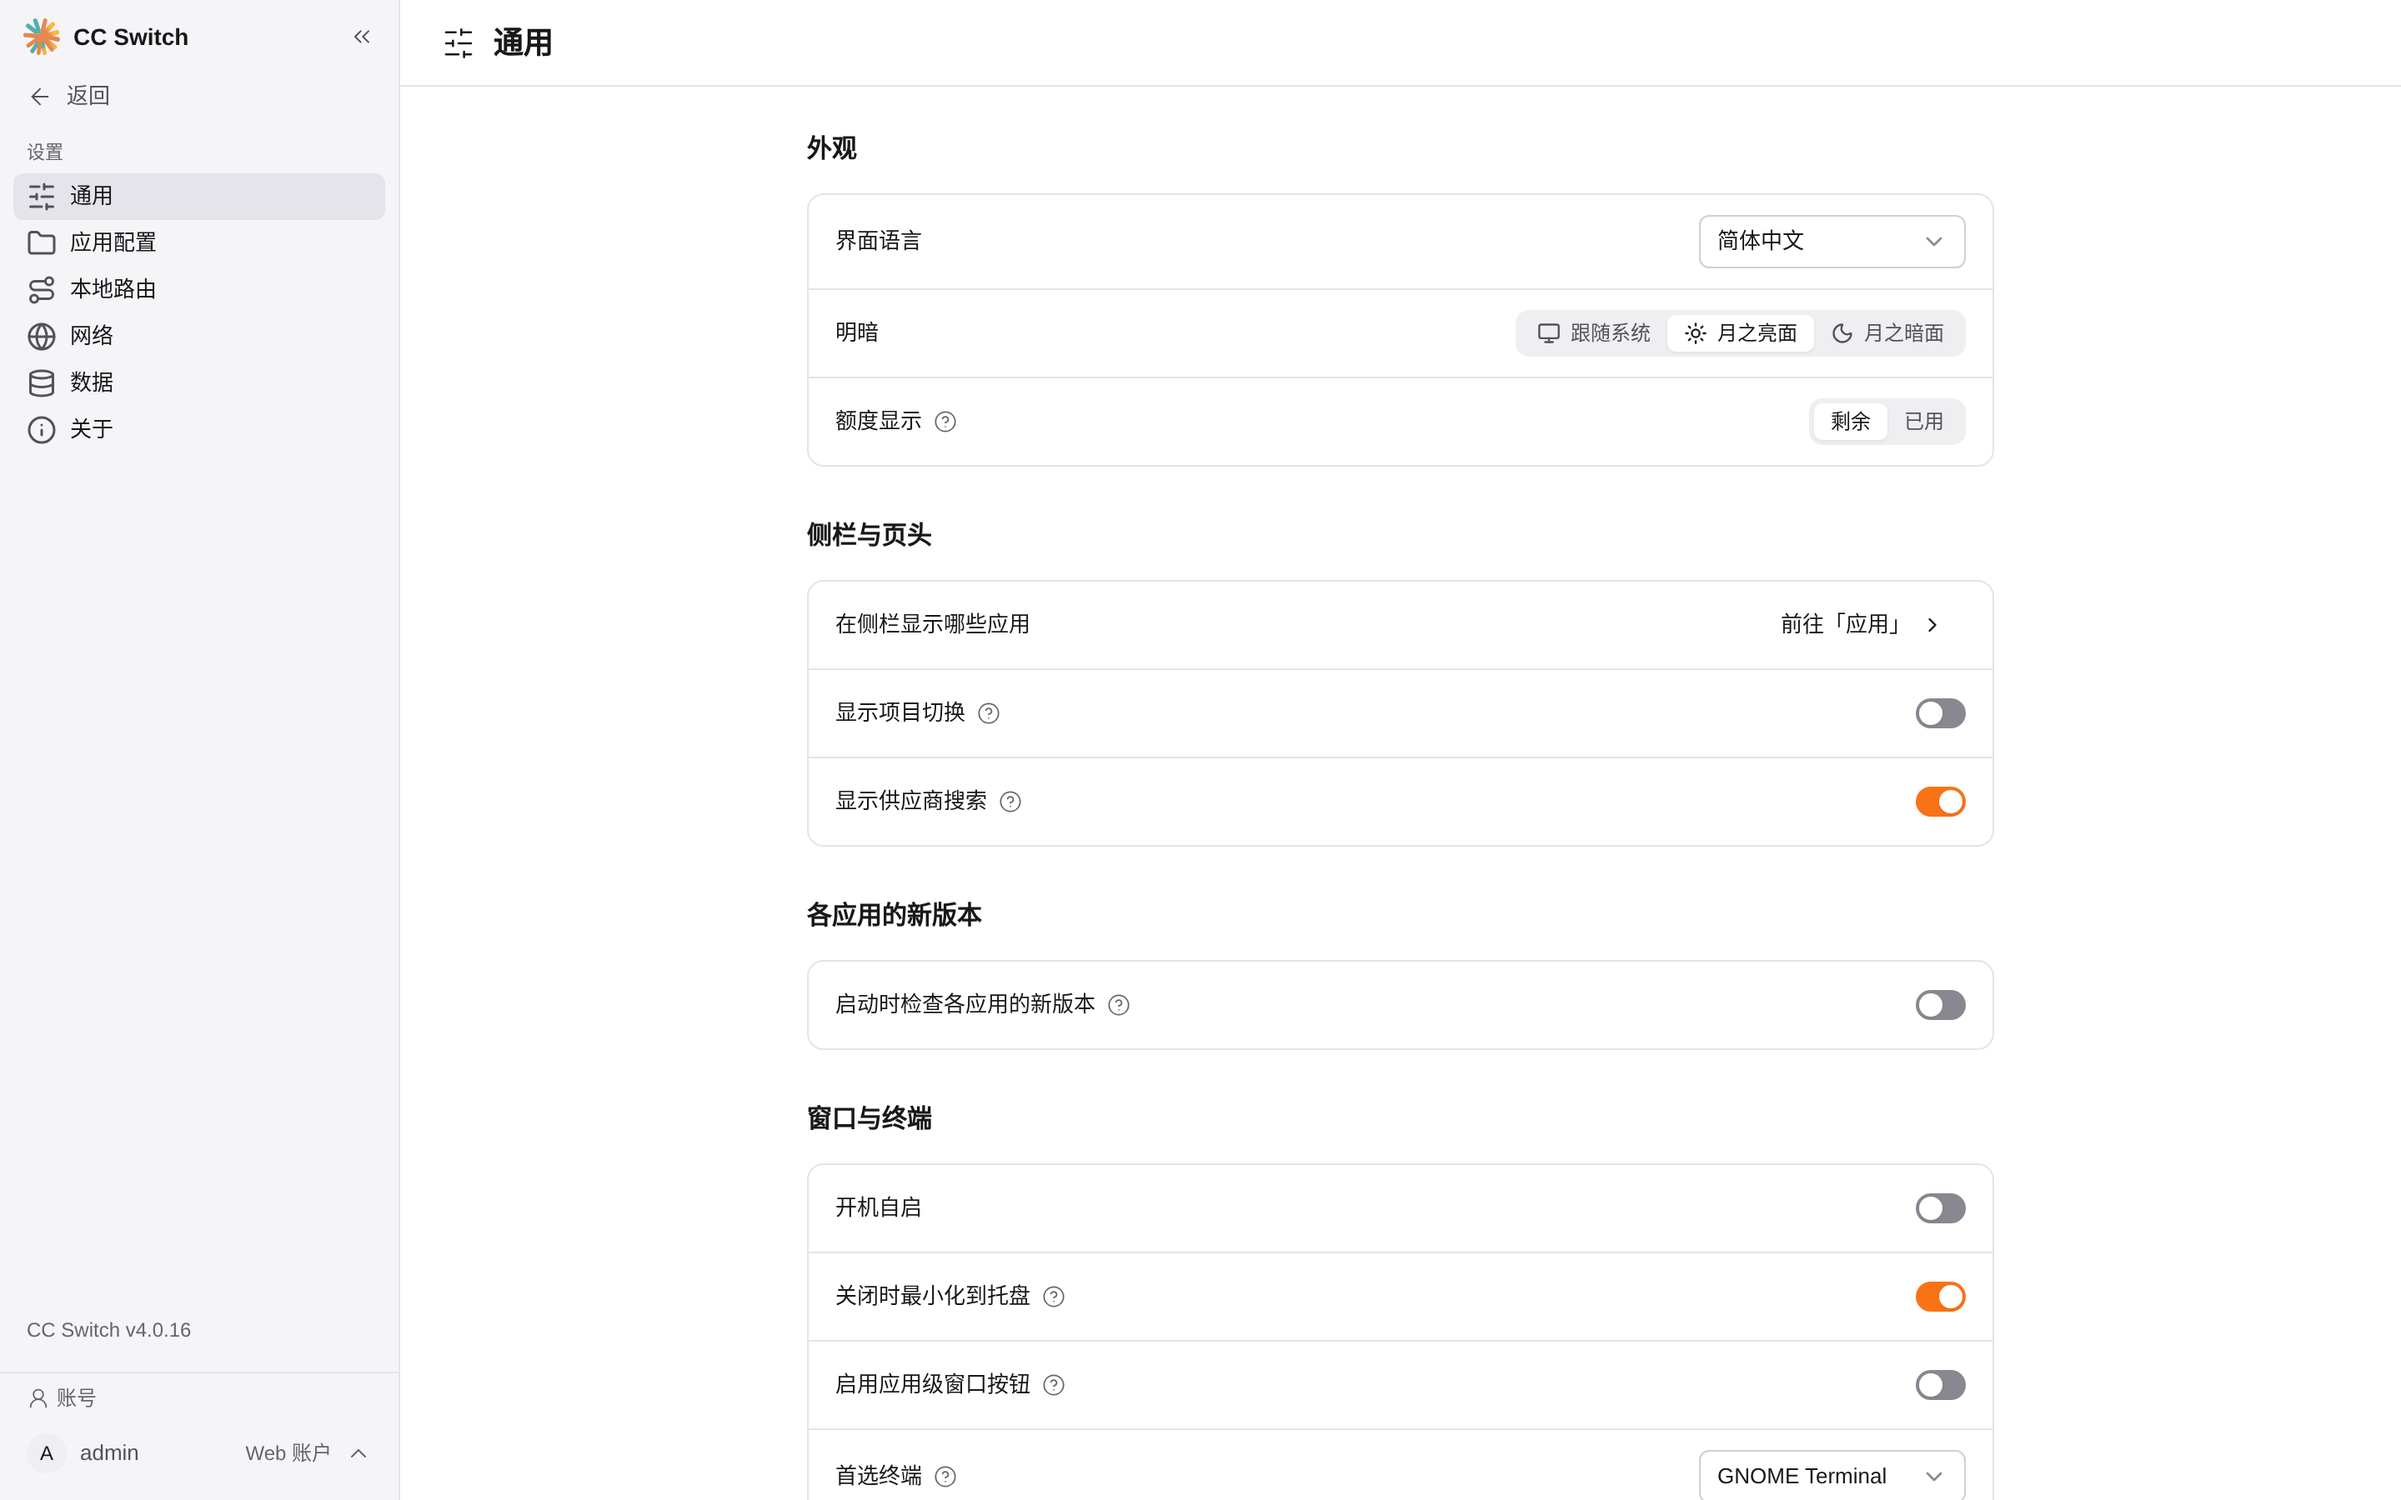
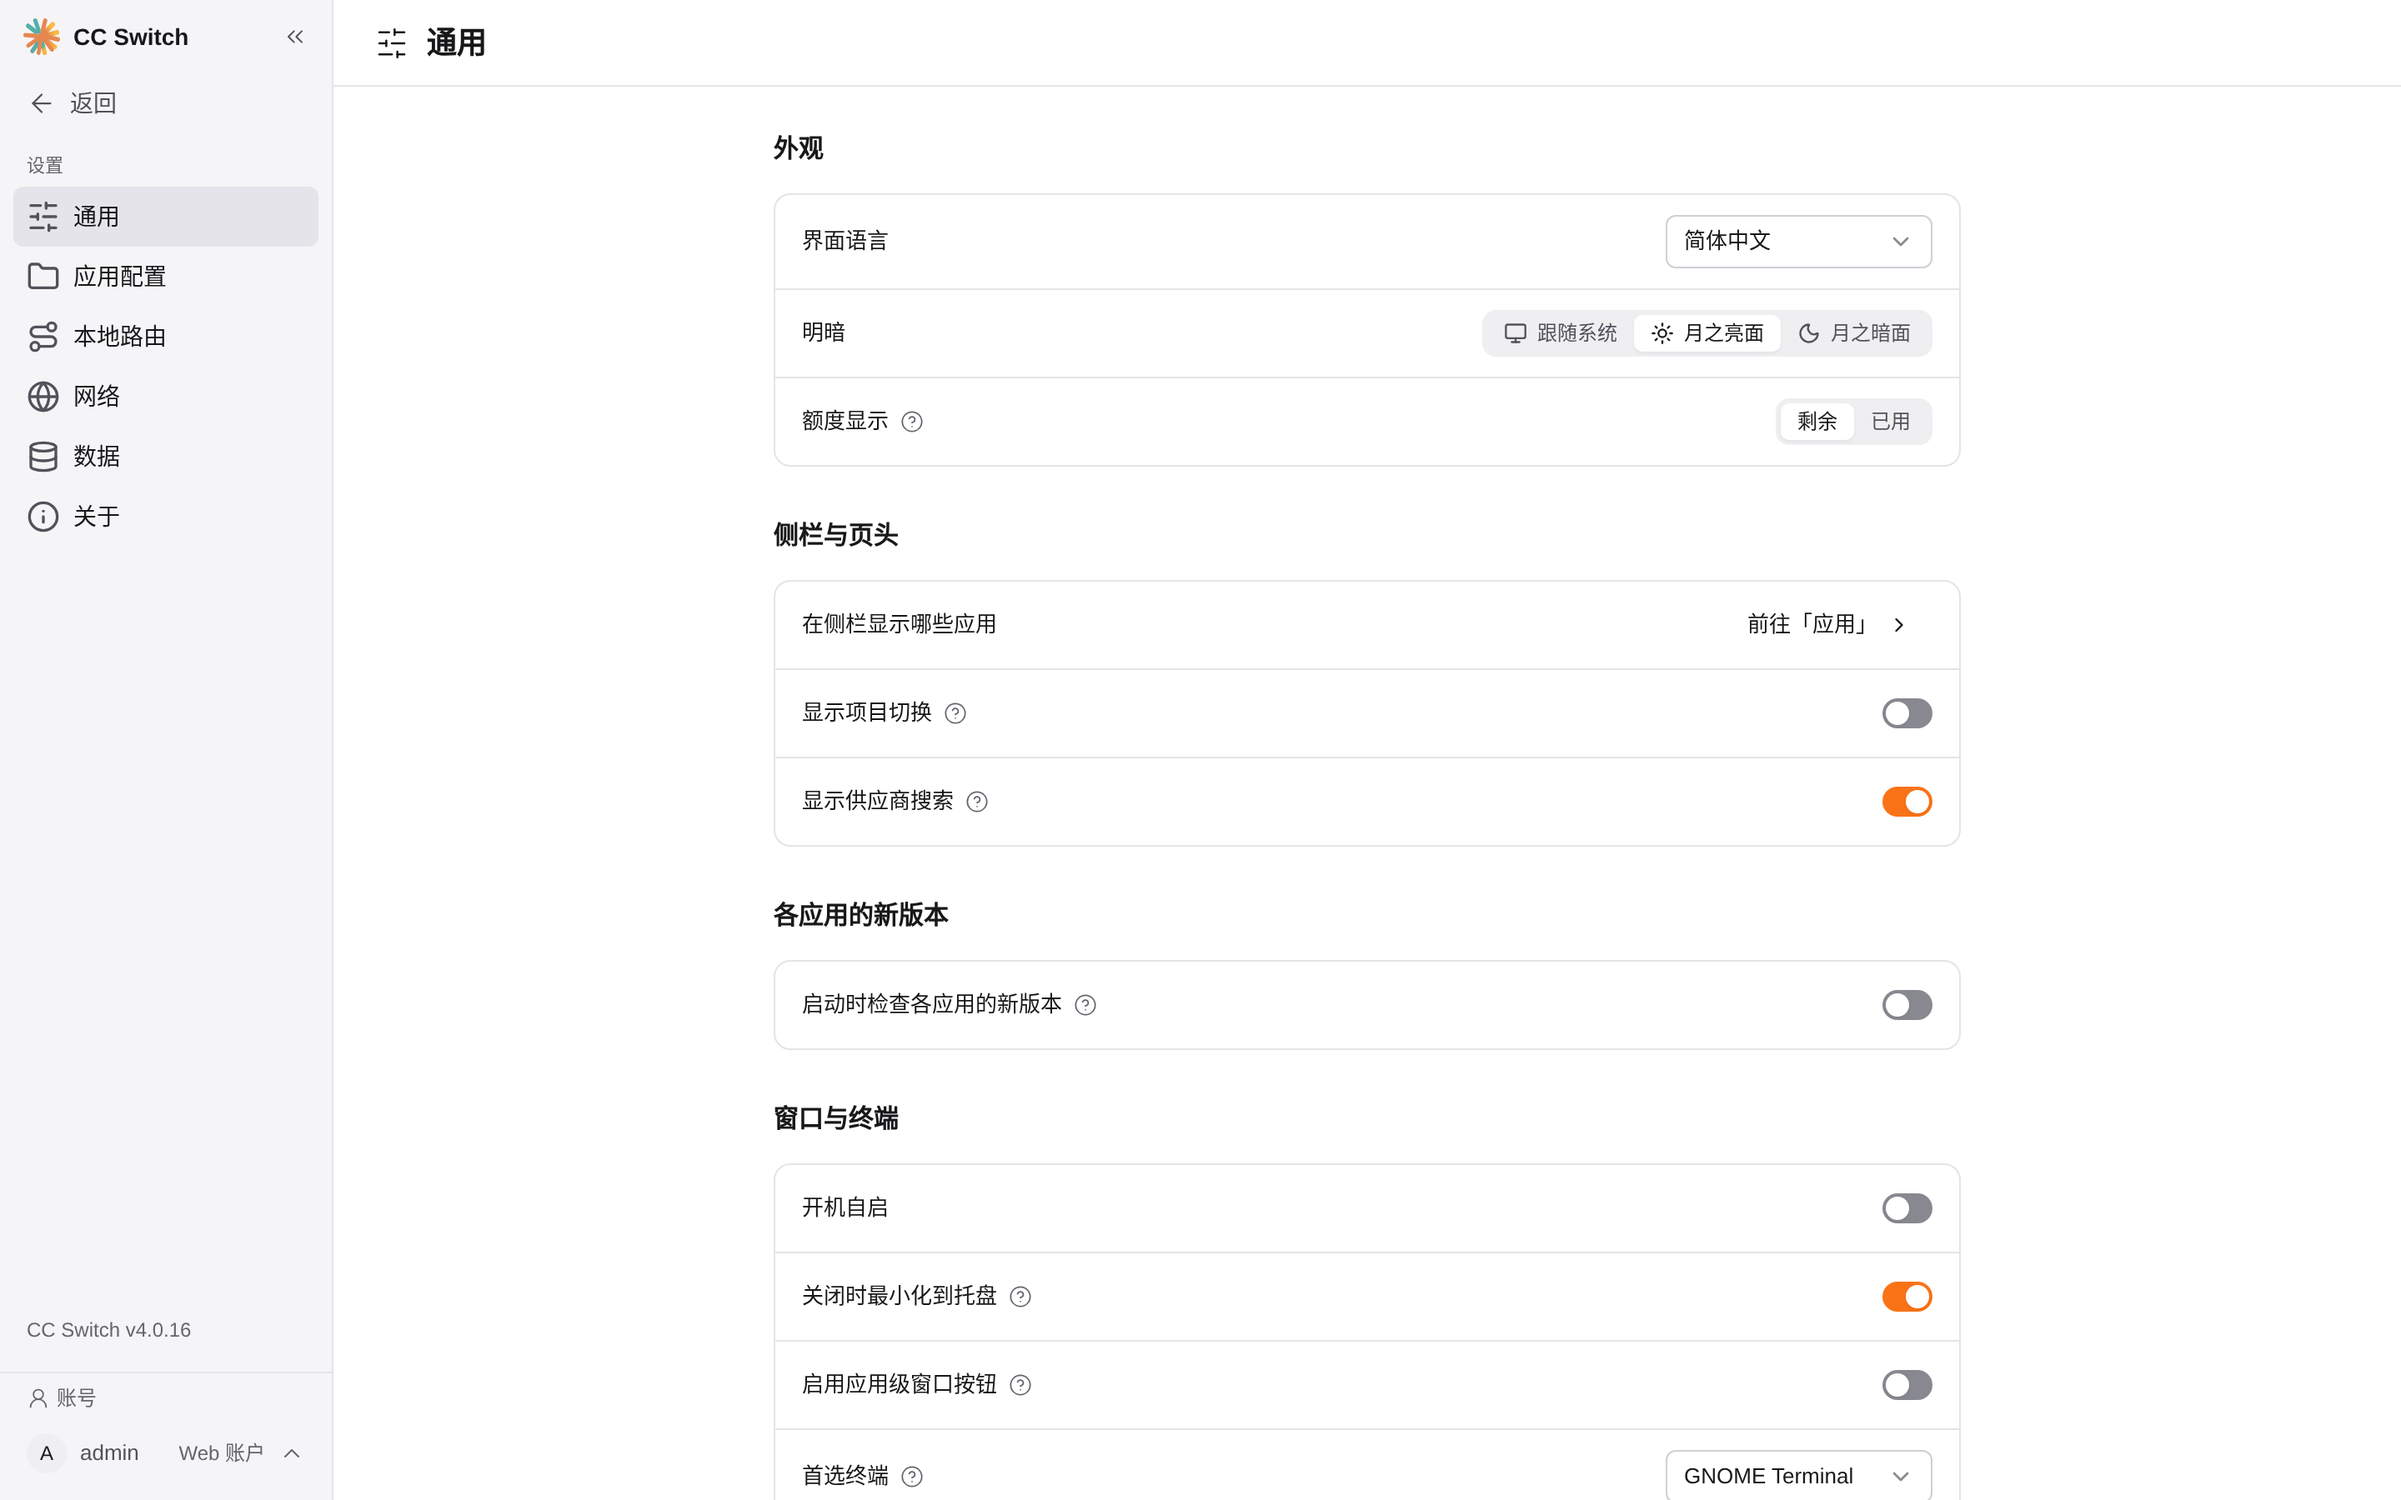
style(sidebar): revert width and increase row height

diff --git a/src/components/shell/Sidebar.tsx b/src/components/shell/Sidebar.tsx
@@ -451,7 +451,7 @@ function AppNavItem({
           aria-label={tip}
           aria-current={selected ? "page" : undefined}
           className={cn(
-            "mx-auto flex h-8 w-12 shrink-0 items-center justify-center rounded-control transition-colors hover:bg-subtle",
+            "mx-auto flex h-9 w-12 shrink-0 items-center justify-center rounded-control transition-colors hover:bg-subtle",
             selected && "bg-selected hover:bg-selected",
           )}
         >
@@ -481,11 +481,11 @@ function AppNavItem({
       onClick={onSelect}
       aria-current={selected ? "page" : undefined}
       className={cn(
-        "mx-2 flex h-7 shrink-0 items-center gap-2 rounded-control px-2 text-start transition-colors hover:bg-subtle",
+        "mx-2 flex h-9 shrink-0 items-center gap-2 rounded-control px-2 text-start text-sm transition-colors hover:bg-subtle",
         selected && "bg-selected font-medium hover:bg-selected",
       )}
     >
-      <AppGlyph app={app} size={16} badgeClassName={badgeBg} />
+      <AppGlyph app={app} size={18} badgeClassName={badgeBg} />
       <span className="min-w-0 flex-1 truncate">{name}</span>
       {status.alert ? (
         <span
@@ -612,7 +612,7 @@ function NavItem({
           aria-label={title ?? accessibleName}
           aria-current={selected ? "page" : undefined}
           className={cn(
-            "mx-auto flex h-8 w-12 shrink-0 items-center justify-center rounded-control transition-colors hover:bg-subtle",
+            "mx-auto flex h-9 w-12 shrink-0 items-center justify-center rounded-control transition-colors hover:bg-subtle",
             selected && "bg-selected hover:bg-selected",
           )}
         >
@@ -642,12 +642,12 @@ function NavItem({
         aria-label={trailingLabel ? accessibleName : undefined}
         aria-current={selected ? "page" : undefined}
         className={cn(
-          "flex h-7 shrink-0 items-center gap-2 rounded-control px-2 text-start transition-colors hover:bg-subtle",
+          "flex h-9 shrink-0 items-center gap-2 rounded-control px-2 text-start text-sm transition-colors hover:bg-subtle",
           compact ? "min-w-0 flex-1" : "mx-2",
           selected && "bg-selected font-medium hover:bg-selected",
         )}
       >
-        {glyph(18)}
+        {glyph(20)}
         {trailingLines.length === 0 ? (
           <span className="min-w-0 flex-1 truncate">{label}</span>
         ) : (
@@ -728,9 +728,9 @@ function SettingsDirectory({
         <button
           type="button"
           onClick={onExitSettings}
-          className="mx-2 flex h-7 shrink-0 items-center gap-2 rounded-control px-2 text-start text-fg-2 transition-colors hover:bg-subtle hover:text-fg-1"
+          className="mx-2 flex h-9 shrink-0 items-center gap-2 rounded-control px-2 text-start text-sm text-fg-2 transition-colors hover:bg-subtle hover:text-fg-1"
         >
-          <ArrowLeft className="h-4 w-4" strokeWidth={1.5} aria-hidden="true" />
+          <ArrowLeft className="h-[18px] w-[18px]" strokeWidth={1.5} aria-hidden="true" />
           {t("nav.back")}
         </button>
       )}

diff --git a/src/hooks/useSidebarCollapsed.ts b/src/hooks/useSidebarCollapsed.ts
@@ -13,7 +13,7 @@ export const SIDEBAR_AUTO_COLLAPSE_WIDTH = 960;
 
 const STORAGE_KEY = "cc-switch-sidebar-collapsed";
 
-export const SIDEBAR_EXPANDED_WIDTH = 240;
+export const SIDEBAR_EXPANDED_WIDTH = 200;
 /** 收起时的图标轨宽度：macOS 的红绿灯（新版更大）要约 74px，Mac 上放宽到 84 */
 export const sidebarRailWidth = () => (isMac() ? 84 : 72);
 
